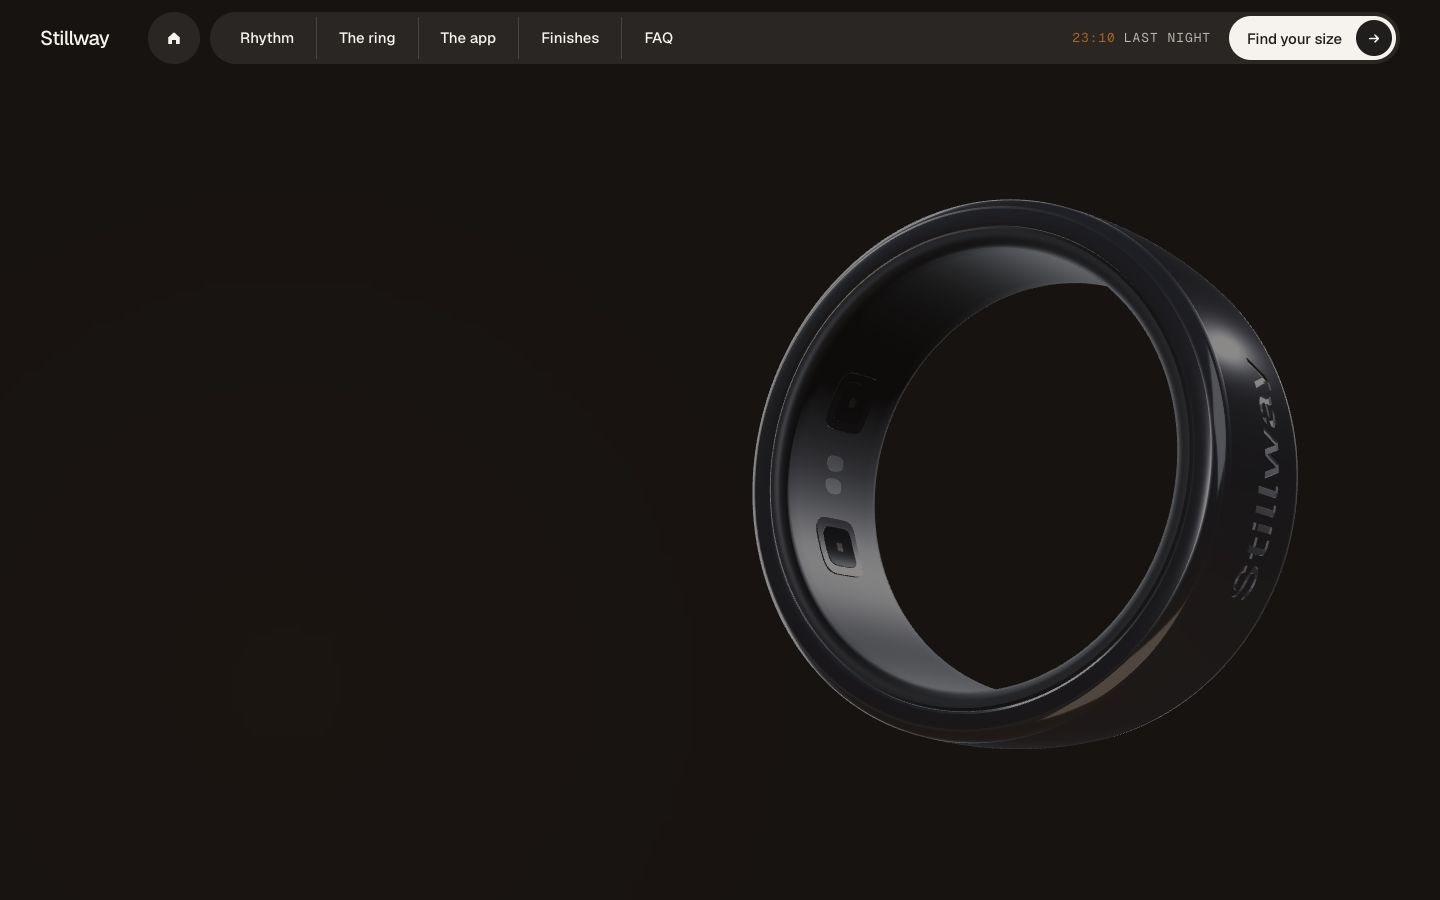
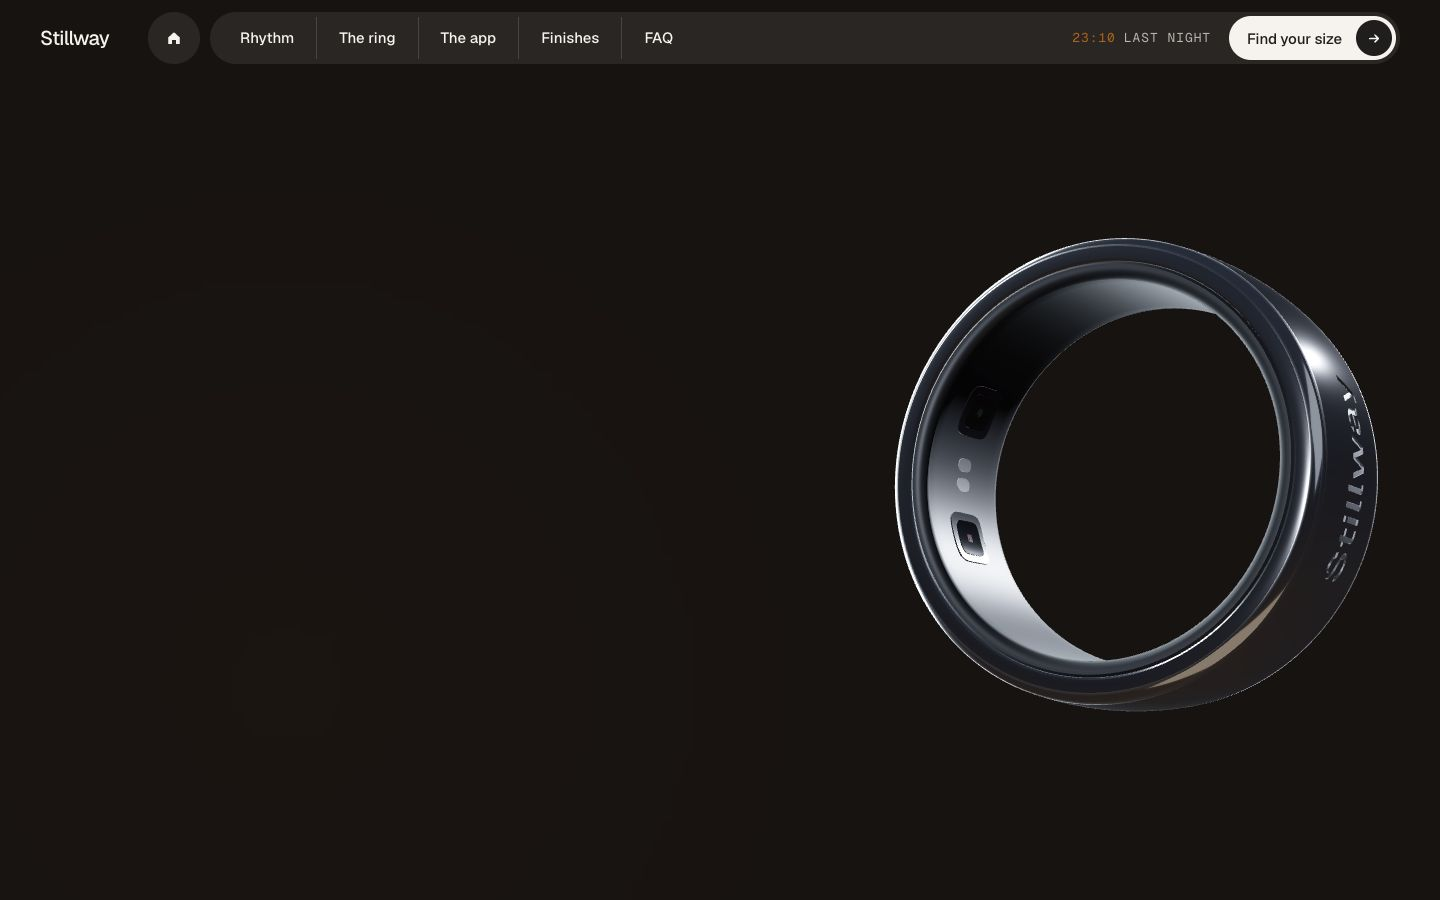
fix(web-v2): D-090 round 1 — silver ring in S05 and all connections, bigger S03 numbers
- S05: neutral paper-polished env + one weak ochre rim from the glow side (no
  copper ring); headline stays left of the ring and is gone before the card
- S03: active number ~half the width (clamp 5rem-17rem), previous one ends at
  ~a quarter and dim; ring moved right; no duplicate 'Last night' kicker;
  headline weight 500 at S01 statement size; state 4 keeps the logo in view
- connections: 02->03 rim comes up before the env turns to night; 03->04 the
  ring shrinks at full opacity then goes; env swap dip floor 0.45 (no black
  ring anywhere)
- Dusk enters as a wipe rising from the bottom and leaves as Paper wiping down
  (no muddy grey dissolve)
- S04: 'ACTIVITY' small dim caps + 'and rest.' big and bright (Oryzo); phone
  thumbnails smaller with gaps; photos load eagerly
- screenshots updated in docs/screens/s03-s05-d090

Changed region(s): [[0.5312, 0.2178, 0.9688, 0.8089]]

diff --git a/web-v2/src/scripts/sections/sleep.ts b/web-v2/src/scripts/sections/sleep.ts
@@ -3,7 +3,7 @@
  * Layout references, see Sleep.astro).
  * u: -1..0 connection from S02: text out (0–30%), Paper → Night, the env turns to night and the cold
  *          rim light comes up (30–70%), clock 07:10 → 23:10 · Last night (70–100%)
- *  0 state 1  dark, kicker "Last night"; ring centred, only its edge lit, slow turn
+ *  0 state 1  dark (the navbar clock reads "23:10 · Last night"); ring centred, edge lit, slow turn
  *  1 state 2  headline + [ SETTLED ] 23:10 big in the slot; ring moves right (ref 1 composition)
  *  2 state 3  [ RESTED ] 7h 12m takes the slot; 23:10 shrinks upward and dims
  *  3 state 4  [ BROKEN ] 2× takes the slot, small line + Simulated data; ring at the reference
@@ -11,7 +11,7 @@
  *  > 3.6      connection to S04: everything fades out (0–30%)
  */
 import { put, seg, window4, clamp01, type Ctx } from '../anim';
-import { along, pose, ANGLE } from '../ring/poses';
+import { along, pose, ANGLE, lerpPose, type Pose } from '../ring/poses';
 import type { SectionMotion } from '../story';
 
 let el: Record<string, HTMLElement | null> = {};
@@ -21,19 +21,18 @@ const END = 3.6;
 export const sleep: SectionMotion = {
   init(r) {
     const q = (s: string) => r.querySelector<HTMLElement>(s);
-    el = { kicker: q('[data-s-kicker]'), head: q('[data-s-head]'), line: q('[data-s-line]'), sim: q('[data-s-sim]') };
+    el = { head: q('[data-s-head]'), line: q('[data-s-line]'), sim: q('[data-s-sim]') };
     stats = [...r.querySelectorAll<HTMLElement>('[data-s-stat]')];
   },
   update(u, ctx) {
     const out = 1 - seg(u, END, END + 0.3);
-    put(el.kicker, { o: seg(u, -0.25, 0.1) * out }, ctx);
     put(el.head, { o: seg(u, 0.45, 0.95) * out, yv: 0.02 * (1 - seg(u, 0.45, 0.95)) }, ctx);
     stats.forEach((s, i) => {
       const a = 0.5 + i; // number i arrives on the way to state i + 2
       const inn = seg(u, a, a + 0.45);
       const back = seg(u, a + 1, a + 1.45); // the next number arrives: shrink upward, dim
       const gone = seg(u, a + 2, a + 2.45); // two numbers later: out
-      const scale = 1 - 0.58 * back;
+      const scale = 1 - 0.76 * back; // the previous number ends small (≈ a quarter) and dim
       // the dimmed number moves up by the height of the block that replaces it, so they never overlap
       const lift = (stats[i + 1]?.offsetHeight ?? s.offsetHeight) + 14;
       const y = (1 - inn) * 40 - back * lift;
@@ -47,7 +46,8 @@ export const sleep: SectionMotion = {
     const m = ctx.mobile;
     const tq = ANGLE.threeQuarter;
     // ref 1: big ring on the right, may be cut by the edge; phones: upper half
-    const side = m ? { x: 0, y: 0.2, w: 0.82 } : { x: 0.26, y: -0.03, w: 0.54 };
+    // the number takes ~half the width (Ultrahuman big-number ref), so the ring sits further right
+    const side = m ? { x: 0, y: 0.22, w: 0.72 } : { x: 0.33, y: -0.03, w: 0.48 };
     const night = { light: 1, rim: 1, uncap: 1 };
     // slow continuous turn (no stops), ending at the reference pose where "Stillway" reads
     const drift = (k: number) => tq.ry + 0.55 * (1 - k);
@@ -56,7 +56,13 @@ export const sleep: SectionMotion = {
       [1, pose({ ...side, ...tq, ry: drift(0.4), rx: -0.18, ...night })],
       [2, pose({ ...side, ...tq, ry: drift(0.75), rx: -0.16, ...night })],
       // state 4: a little further in and smaller so the engraving on the band is fully in view
-      [3, pose({ ...side, x: m ? 0 : 0.2, w: m ? side.w : 0.48, ...tq, ry: drift(1) + 0.15, rx: -0.15, ...night })],
+      [3, pose({ ...side, x: m ? 0 : 0.25, w: m ? side.w : 0.4, ...tq, ry: drift(1) - 0.05, rx: -0.15, ...night })],
     ]);
+  },
+  // 02 → 03: the cold rim comes up first (15–45%), the env turns to night after (45–75%), so the
+  // silver stays readable through the whole connection (D-090 r1)
+  ringIn(x, _ctx, from: Pose, to: Pose) {
+    const p = lerpPose(from, to, seg(x, 0.3, 0.7));
+    return { ...p, rim: seg(x, 0.15, 0.45), light: seg(x, 0.45, 0.75) };
   },
 };

diff --git a/web-v2/src/scripts/sections/insight.ts b/web-v2/src/scripts/sections/insight.ts
@@ -14,8 +14,9 @@ import type { SectionMotion } from '../story';
 
 let el: Record<string, HTMLElement | null> = {};
 const END = 3.6;
-// rim 0.35: a little cool light so the silver still reads as silver in the ochre Dusk env
-const DUSK = { dusk: 1, light: 0, rim: 0.35 };
+// D-090 r1: the ring must read neutral silver (not copper) — neutral paper-polished env, no Dusk
+// env, plus one weak ochre rim from the glow side (lower left)
+const DUSK = { dusk: 0, light: 0, rim: 0, warm: 1 };
 
 export const insightStart = (ctx: Ctx): Pose =>
   pose({ x: ctx.mobile ? 0.14 : 0.2, y: ctx.mobile ? 0.12 : 0.04, w: ctx.mobile ? 0.8 : 0.42, ...ANGLE.threeQuarter, ...DUSK });
@@ -29,9 +30,10 @@ export const insight: SectionMotion = {
     const out = 1 - seg(u, END, END + 0.3);
     const headIn = seg(u, -0.25, 0.1);
     const toEdge = seg(u, 0.5, 1.3);
-    put(el.head, { o: headIn * (1 - seg(u, 1.6, 2.1)) * out, x: ctx.mobile ? 0 : -16 * toEdge, yv: ctx.mobile ? 0 : 0.03 * toEdge }, ctx);
+    // state 2: the headline stays left, clear of the ring; it is fully gone before the card arrives
+    put(el.head, { o: headIn * (1 - seg(u, 1.15, 1.55)) * out, x: ctx.mobile ? 0 : -16 * toEdge, yv: ctx.mobile ? 0 : 0.03 * toEdge }, ctx);
     put(el.h2, { o: seg(u, 0.4, 1) }, ctx);
-    const card = seg(u, 1.5, 2.1);
+    const card = seg(u, 1.65, 2.2);
     put(el.card, { o: card * out, s: 0.95 + 0.05 * card }, ctx);
     if (el.bar) el.bar.style.setProperty('--p', String(seg(u, 1.8, 2.8)));
     put(el.body, { o: window4(u, 2.5, 3, END, END + 0.3) }, ctx);
@@ -43,7 +45,8 @@ export const insight: SectionMotion = {
     const inside = pose({ x: 0, y: 0, w: m ? 2.4 : 1.2, rx: -0.06, ry: 0.04, rz: 0, spin: Math.PI, uncap: 1, ...DUSK });
     return along(u, [
       [0, start],
-      [1, pose({ ...start, x: m ? 0.06 : 0.1, y: m ? 0.06 : 0.01, w: m ? 1.1 : 0.62, ...ANGLE.threeQuarter, ry: ANGLE.threeQuarter.ry + 0.3, uncap: 1, ...DUSK })],
+      // state 2: grows on its own side, leaving the headline area free
+      [1, pose({ ...start, x: m ? 0.1 : 0.24, y: m ? 0.1 : 0.02, w: m ? 0.95 : 0.5, ...ANGLE.threeQuarter, ry: ANGLE.threeQuarter.ry + 0.3, uncap: 1, ...DUSK })],
       [2, inside],
       [3, inside],
     ]);

diff --git a/web-v2/src/scripts/story.ts b/web-v2/src/scripts/story.ts
@@ -158,12 +158,32 @@ export function initStory(opts: { reduced: boolean; subscribe: (fn: () => void) 
 
     /* background */
     const mid = inConn && prev ? seg(tinX, 0.3, 0.7) : 1;
-    const a = prev ? BG[prev.def.bg] : BG[cur.def.bg];
-    const b = BG[cur.def.bg];
+    // a Dusk side never lerps its base: the base is the other section's colour and the opaque Dusk
+    // layer cross-fades over it (D-090 r1: no muddy grey mix between Dusk and Paper)
+    let a = prev ? BG[prev.def.bg] : BG[cur.def.bg];
+    let b = BG[cur.def.bg];
+    if (prev && prev.def.bg === 'dusk') a = b;
+    if (prev && cur.def.bg === 'dusk') b = a;
     const k = inConn ? mid : 1;
     bgEl.style.backgroundColor = `rgb(${a.map((v, j) => Math.round(lerp(v, b[j], k))).join(' ')})`;
-    const duskW = (prev && inConn && prev.def.bg === 'dusk' ? 1 - k : 0) + (cur.def.bg === 'dusk' ? k : 0);
-    duskEl.style.opacity = duskW.toFixed(3);
+    // Dusk enters as a soft wipe rising from the bottom (Storyboard 04 → 05: "Dusk naik dari bawah")
+    // and leaves as Paper wiping down from the top — never a 50% dissolve, which reads as muddy grey
+    // (D-090 r1)
+    let duskO = cur.def.bg === 'dusk' ? 1 : 0;
+    let mask = 'none';
+    if (inConn && prev && prev.def.bg === 'dusk' && cur.def.bg !== 'dusk') {
+      duskO = 1;
+      const p = -20 + 140 * k; // paper edge moves down
+      mask = `linear-gradient(to bottom, transparent ${(p - 20).toFixed(1)}%, #000 ${(p + 20).toFixed(1)}%)`;
+    } else if (inConn && prev && cur.def.bg === 'dusk' && prev.def.bg !== 'dusk') {
+      const p = -20 + 140 * k; // dusk edge moves up
+      mask = `linear-gradient(to top, #000 ${(p - 20).toFixed(1)}%, transparent ${(p + 20).toFixed(1)}%)`;
+    }
+    duskEl.style.opacity = duskO.toFixed(3);
+    if (duskEl.style.maskImage !== mask) {
+      duskEl.style.maskImage = mask;
+      duskEl.style.webkitMaskImage = mask;
+    }
     const darkW = (prev && inConn && isDark(prev.def.bg) ? 1 - k : 0) + (isDark(cur.def.bg) ? k : 0);
     const theme = (!inConn && cur.m.theme?.(u)) || (darkW > 0.5 ? 'dark' : 'light');
     if (nav && nav.dataset.theme !== theme) nav.dataset.theme = theme;

diff --git a/web-v2/src/scripts/ring/stage.ts b/web-v2/src/scripts/ring/stage.ts
@@ -127,6 +127,10 @@ export async function createRingStage(canvas: HTMLCanvasElement): Promise<RingSt
   const rimFill = new THREE.DirectionalLight(0xdfe8ff, 0);
   rimFill.position.set(-700, 260, 900);
   scene.add(rim, rimFill);
+  // S05: one weak ochre rim from the Dusk glow (lower left); the env stays neutral (D-090 r1)
+  const warmRim = new THREE.DirectionalLight(0xe0a35c, 0);
+  warmRim.position.set(-900, -520, 260);
+  scene.add(warmRim);
   // V1 live cast shadow on the stone (D-051): a shadow-only light and a transparent catcher plane
   renderer.shadowMap.enabled = true;
   renderer.shadowMap.type = THREE.PCFSoftShadowMap;
@@ -236,6 +240,7 @@ export async function createRingStage(canvas: HTMLCanvasElement): Promise<RingSt
     hemi.intensity = 0.35 * p.photo;
     rim.intensity = 14 * p.rim;
     rimFill.intensity = 3.2 * p.rim;
+    warmRim.intensity = 7 * p.warm;
     const sh = Math.max(0, p.shadow);
     catcher.visible = sh > 0.005;
     shadowSun.castShadow = catcher.visible;
@@ -268,7 +273,8 @@ export async function createRingStage(canvas: HTMLCanvasElement): Promise<RingSt
     renderer.toneMappingExposure = 1.0 + 0.15 * ph; // V1 hero exposure 1.15 → 1.0, continuous
     const dip = Math.min(1, Math.abs(n - 0.5) * 2.5, Math.abs(dk - 0.5) * 2.5);
     // on Night the polished env is almost black: lift it with the rim so the band keeps a silver gradient
-    scene.environmentIntensity = (0.15 + 0.85 * dip) * (1 + 1.4 * p.rim);
+    // the swap dip never goes below 0.45, so the ring is never a black shape in a connection (D-090 r1)
+    scene.environmentIntensity = (0.45 + 0.55 * dip) * (1 + 1.4 * p.rim);
 
     if (Math.abs(p.led - lastLed) > 0.001) {
       lastLed = p.led;

diff --git a/web-v2/src/scripts/sections/activity.ts b/web-v2/src/scripts/sections/activity.ts
@@ -57,9 +57,9 @@ export const activity: SectionMotion = {
     // strip geometry: active width A (portrait), small width s, gap g
     const W = window.innerWidth;
     const H = window.innerHeight;
-    const A = ctx.mobile ? W * 0.64 : Math.min(H * 0.7 * 0.714, W * 0.34);
-    const s = ctx.mobile ? A * 0.32 : A * 0.34;
-    const g = ctx.mobile ? 12 : 22;
+    const A = ctx.mobile ? W * 0.58 : Math.min(H * 0.7 * 0.714, W * 0.34);
+    const s = ctx.mobile ? A * 0.24 : A * 0.34; // phones: small thumbs that fit fully beside the frame
+    const g = ctx.mobile ? 18 : 22;
     const near = A / 2 + g + s / 2;
     const darken = seg(x, 0.2, 0.6);
     const enter = (1 - inn) * W * 0.5; // the strip comes in from the right
@@ -95,12 +95,14 @@ export const activity: SectionMotion = {
     const p = insightStart(ctx);
     return { ...p, w: p.w * 0.9, alpha: 0 };
   },
-  // 03 → 04: the ring shrinks and fades out where it is (30–70%)
+  // 03 → 04: the ring shrinks where it is at full opacity (stays silver, never a half-transparent dark
+  // shape on Night), then goes quickly at the end of the middle stretch (D-090 r1)
   ringIn(x, _ctx, from) {
-    const t = seg(x, 0.3, 0.7);
-    const to: Pose = { ...from, w: from.w * 0.55, alpha: 0 };
+    const t = seg(x, 0.3, 0.68);
+    const to: Pose = { ...from, w: from.w * 0.5 };
     const o = {} as Pose;
     for (const key of Object.keys(from) as (keyof Pose)[]) o[key] = lerp(from[key], to[key], t);
+    o.alpha = 1 - seg(x, 0.56, 0.72);
     return o;
   },
 };

diff --git a/web-v2/src/scripts/ring/poses.ts b/web-v2/src/scripts/ring/poses.ts
@@ -12,6 +12,7 @@
  * uncap: 0 = width capped at 82% of the viewport height, 1 = no cap (S01 zoom in).
  * dusk: 1 = the Dusk env (S05), swapped in with an intensity dip like night.
  * rim: 0..1 strength of the cold rim light that grazes the band edge in S03 (Ultrahuman ref).
+ * warm: 0..1 weak ochre rim from the lower left (S05 Dusk glow side); the body stays neutral silver.
  * light: 0 = Day studio (Paper), 1 = Night rim light (S03).
  * led: 0..1 glow of the green light in sensor window A (S01 close-up shows it, as in the reference).
  * gloss: 1 = polished silver (finishes.json silver_polished) — every V2 section (D-085);
@@ -32,6 +33,7 @@ export interface Pose {
   light: number;
   dusk: number;
   rim: number;
+  warm: number;
   photo: number;
   uncap: number;
   led: number;
@@ -85,4 +87,4 @@ export function along(u: number, frames: Array<[number, Pose]>): Pose {
   return frames[frames.length - 1][1];
 }
 
-export const pose = (p: Partial<Pose>): Pose => ({ x: 0, y: 0, w: 0.34, rx: 0, ry: 0, rz: 0, spin: 0, roll: 0, light: 0, dusk: 0, rim: 0, photo: 0, uncap: 0, led: 0, gloss: 1, shadow: 0, shadowX: 0, shadowY: -0.3, alpha: 1, ...p });
+export const pose = (p: Partial<Pose>): Pose => ({ x: 0, y: 0, w: 0.34, rx: 0, ry: 0, rz: 0, spin: 0, roll: 0, light: 0, dusk: 0, rim: 0, warm: 0, photo: 0, uncap: 0, led: 0, gloss: 1, shadow: 0, shadowX: 0, shadowY: -0.3, alpha: 1, ...p });
